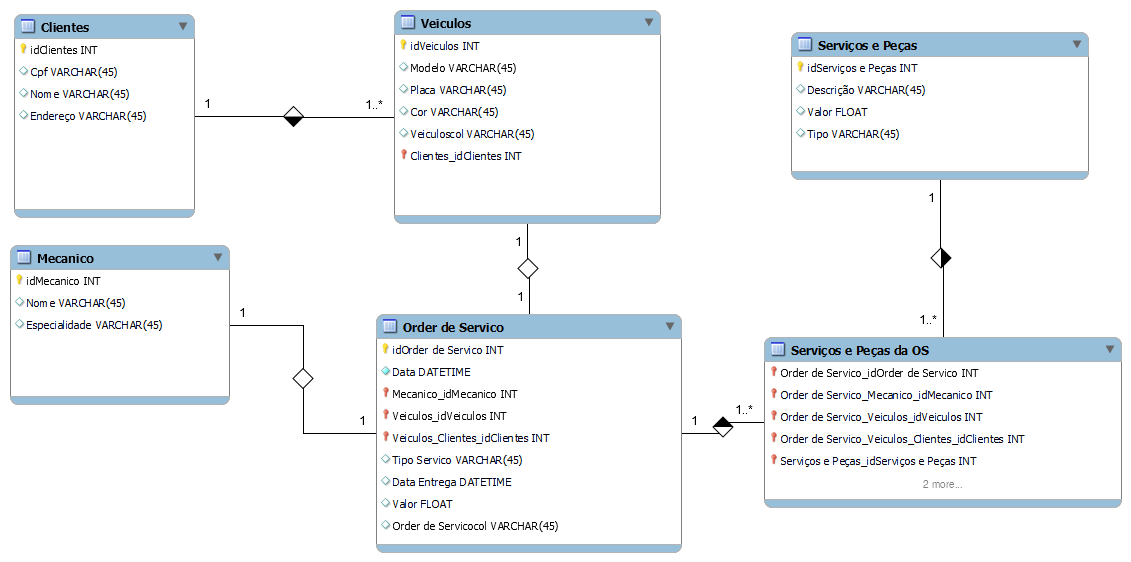
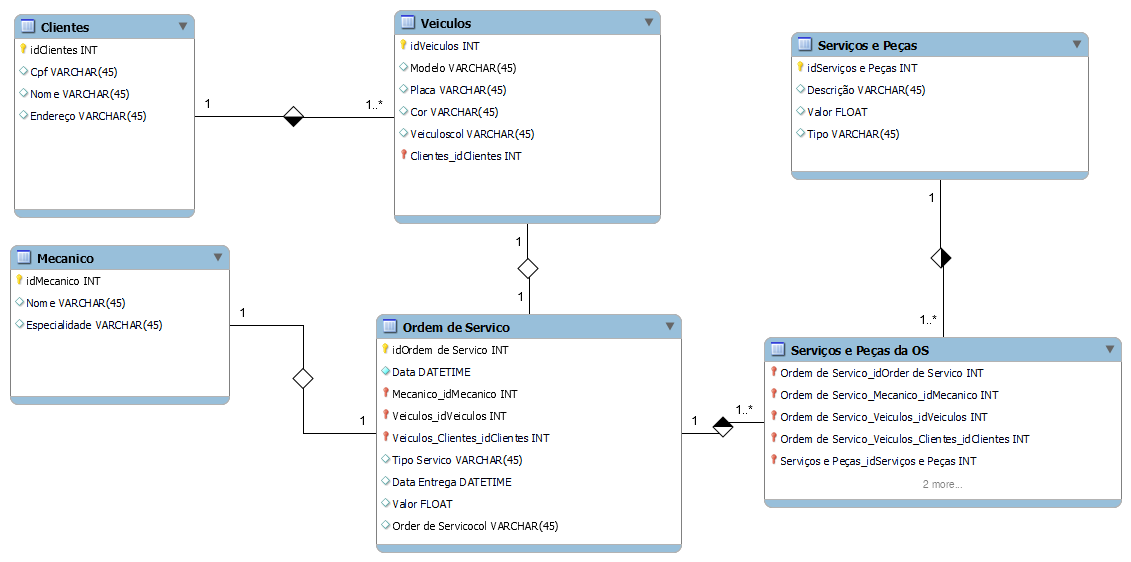
Add files via upload

Changed region(s): [[0.6808, 0.6352, 0.9284, 0.7865], [0.3404, 0.5747, 0.4642, 0.6352]]

diff --git a/README.MD b/README.MD
@@ -1,0 +1,12 @@
+# DB SCHEMA - SERVIÇO MECÂNICO
+
+Schema Relaciona de Banco de Dados para E-commerce
+
+Lista de Tabelas utilizadas:
+
+    Clientes
+    Veiculo
+    Ordem de Serviço
+    Serviços e Peças da OS
+    Mecanico
+    Serviços E Peças
